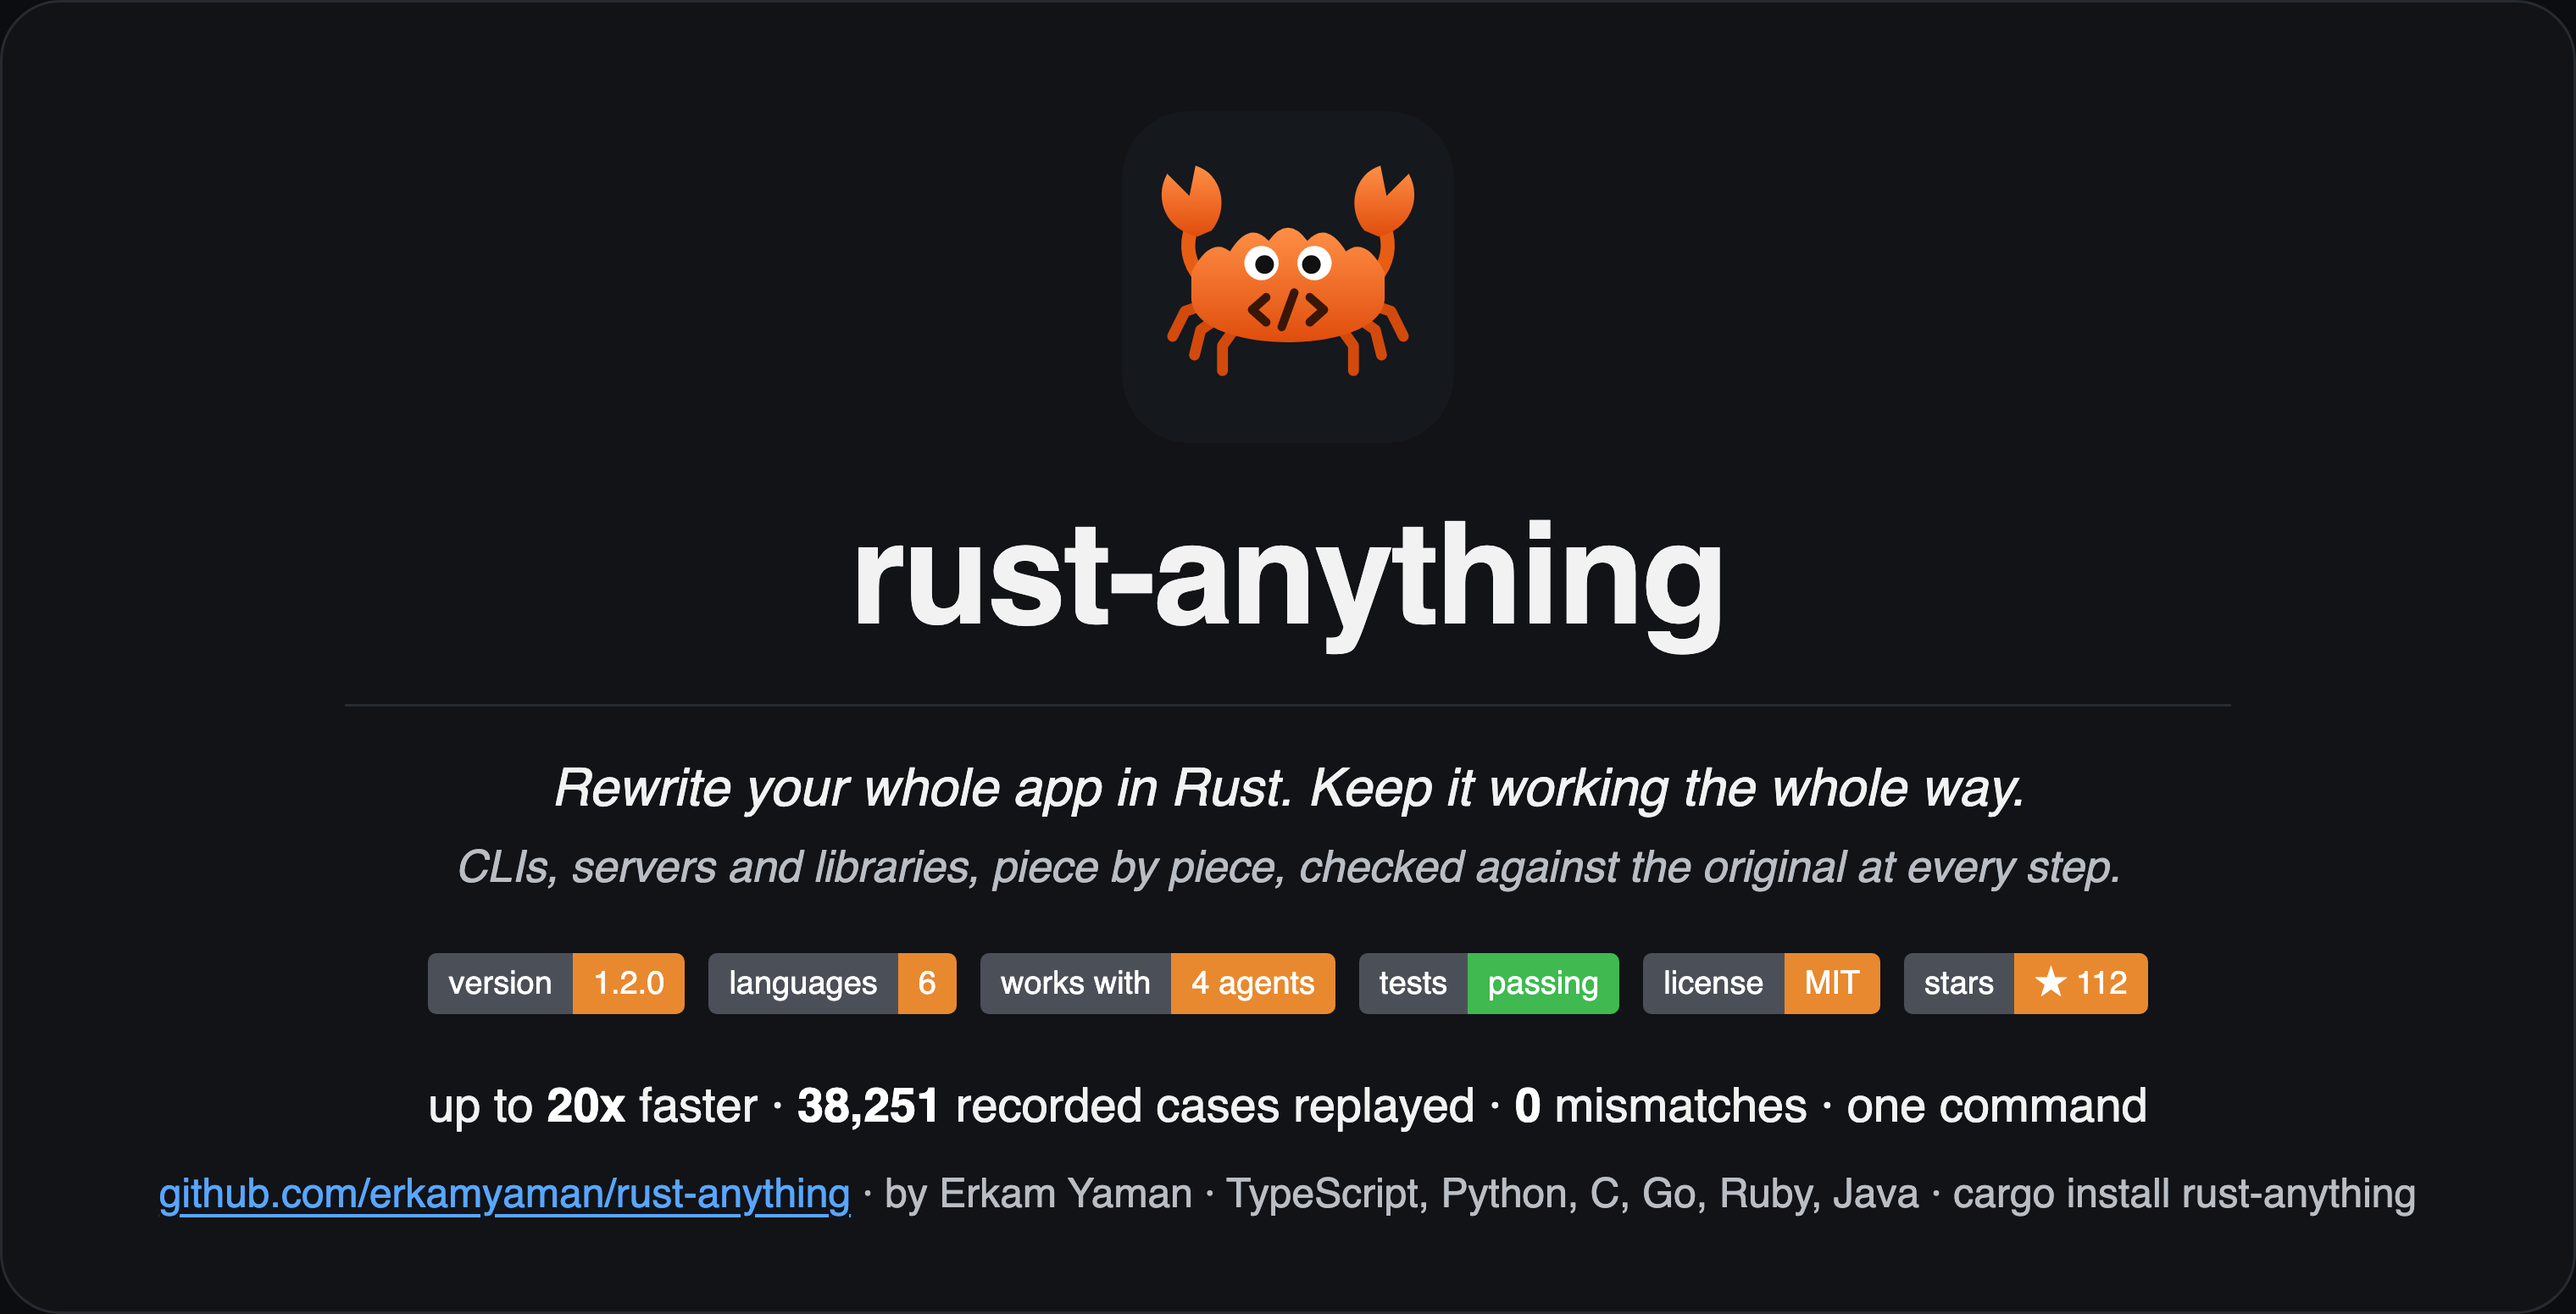
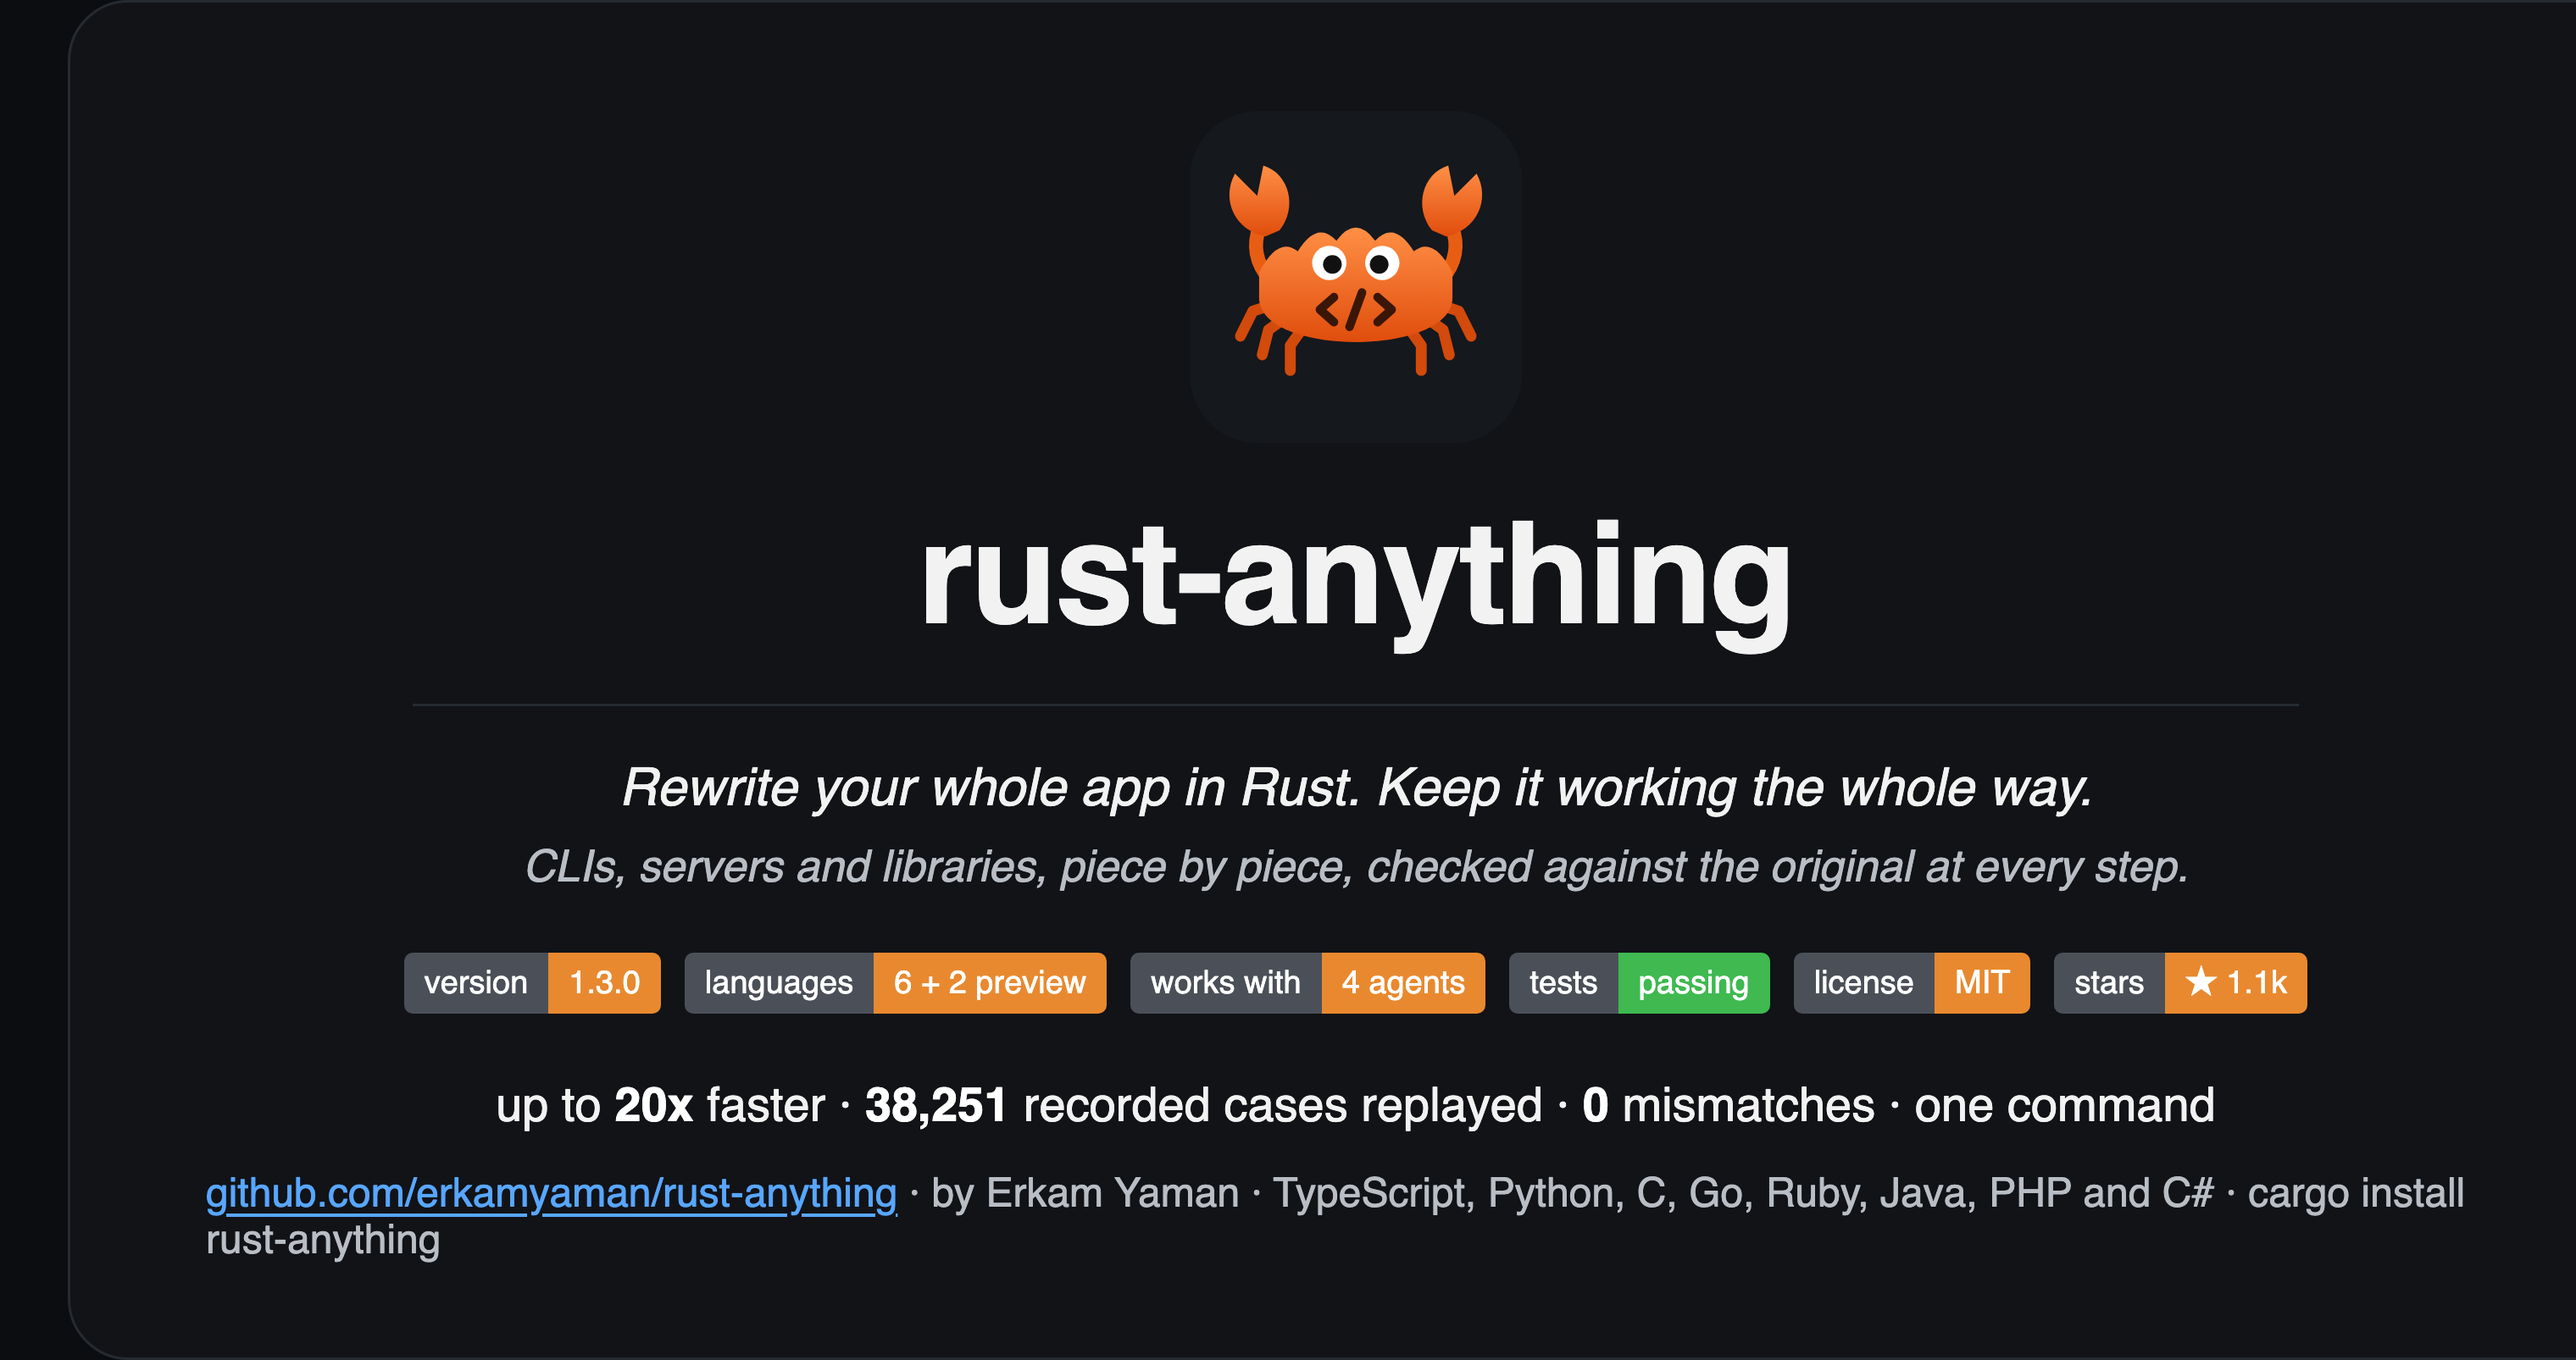
Hero image: v1.3.0, 1.1k stars, PHP and C# in preview

diff --git a/docs/assets/hero.html b/docs/assets/hero.html
@@ -63,15 +63,15 @@
     <p class="tagline">Rewrite your whole app in Rust. Keep it working the whole way.</p>
     <p class="sub">CLIs, servers and libraries, piece by piece, checked against the original at every step.</p>
     <div class="badges">
-      <div class="badge"><span class="k">version</span><span class="v">1.2.0</span></div>
-      <div class="badge"><span class="k">languages</span><span class="v">6</span></div>
+      <div class="badge"><span class="k">version</span><span class="v">1.3.0</span></div>
+      <div class="badge"><span class="k">languages</span><span class="v">6 + 2 preview</span></div>
       <div class="badge"><span class="k">works with</span><span class="v">4 agents</span></div>
       <div class="badge"><span class="k">tests</span><span class="v ok">passing</span></div>
       <div class="badge"><span class="k">license</span><span class="v">MIT</span></div>
-      <div class="badge"><span class="k">stars</span><span class="v">★ 112</span></div>
+      <div class="badge"><span class="k">stars</span><span class="v">★ 1.1k</span></div>
     </div>
     <p class="stats">up to <b>20x</b> faster · <b>38,251</b> recorded cases replayed · <b>0</b> mismatches · one command</p>
-    <p class="link"><a>github.com/erkamyaman/rust-anything</a> · by Erkam Yaman · TypeScript, Python, C, Go, Ruby, Java · cargo install rust-anything</p>
+    <p class="link"><a>github.com/erkamyaman/rust-anything</a> · by Erkam Yaman · TypeScript, Python, C, Go, Ruby, Java, PHP and C# · cargo install rust-anything</p>
   </div>
 </body>
 </html>
